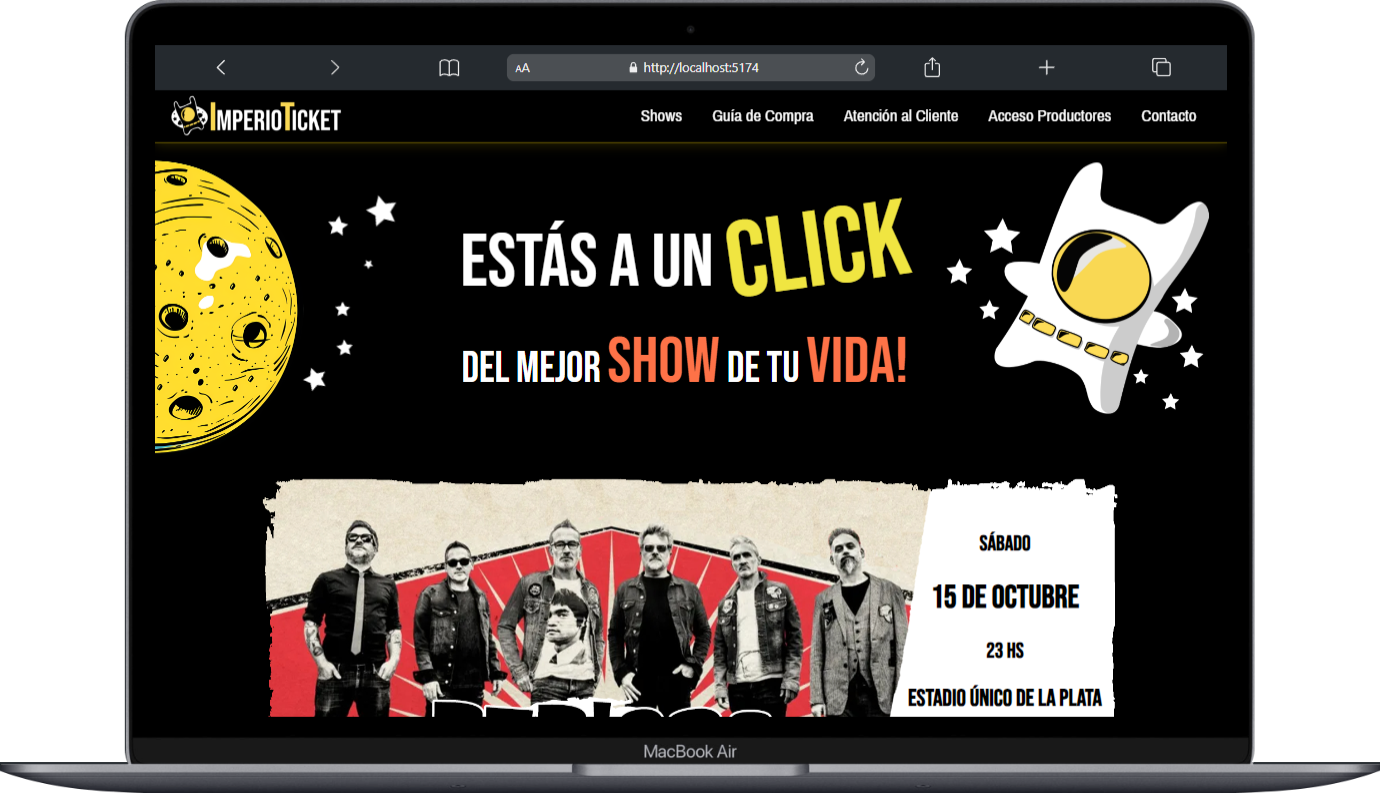
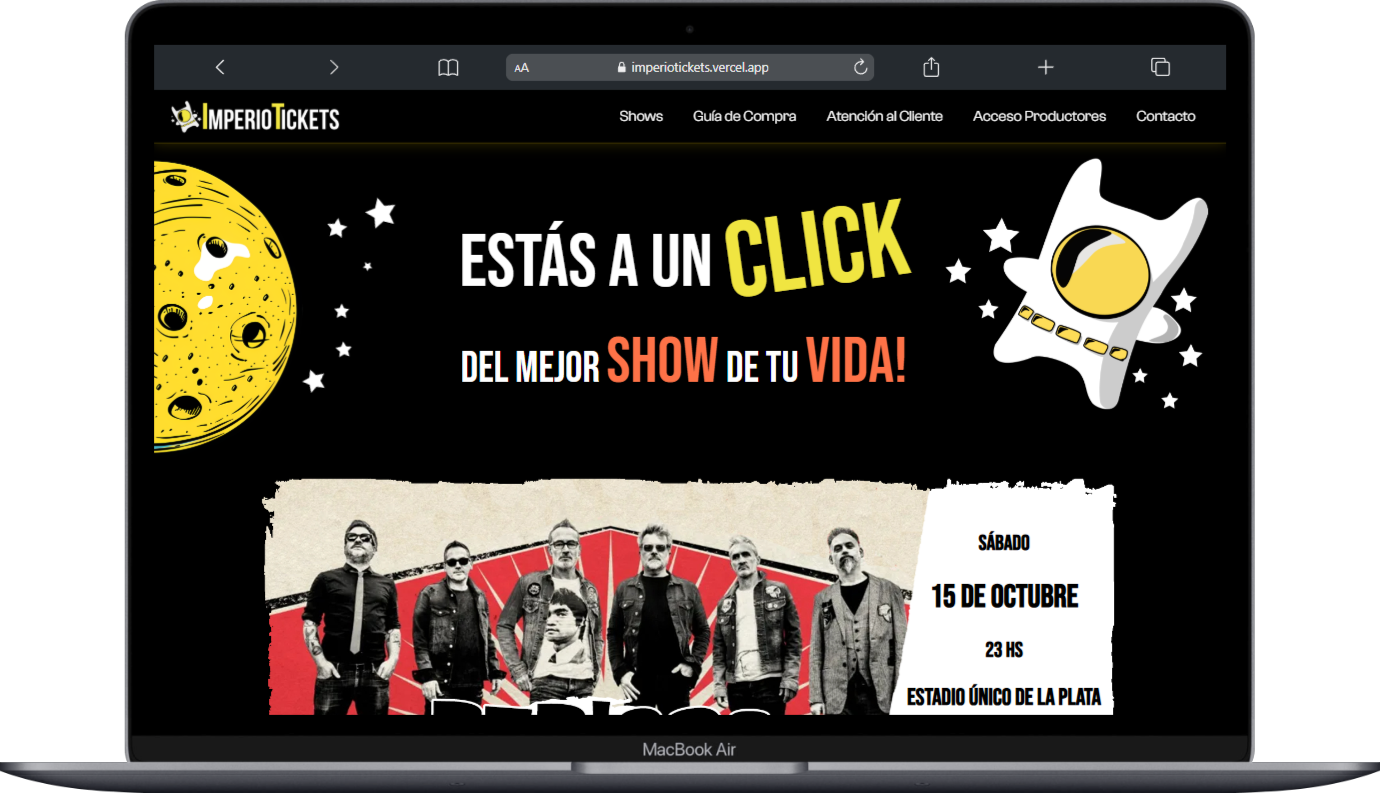
cambio de fotos para proyectos

diff --git a/src/Components/Proyects/Proyects.jsx b/src/Components/Proyects/Proyects.jsx
@@ -115,7 +115,7 @@ const Proyects = () => {
         {/* Div que contiene la información del proyecto */}
         <div className="project-info2">
           <div className='textContainer'>
-            <h3 className='proyectNameImperio'>Imperio Ticket</h3>
+            <h3 className='proyectNameImperio'>Imperio Tickets</h3>
             <p className='proyectDevs1'>{t('imperioTickets.descripcion')}:</p>
             <p className='proyectDevs'>{t('imperioTickets.descripcionDev')} </p>
             <p className='proyectDevs'>{t('imperioTickets.flujo')}</p>

diff --git a/src/Components/Proyects/Proyects.css b/src/Components/Proyects/Proyects.css
@@ -355,7 +355,7 @@
 
 .proyectNameImperio {
     font-family: "Bebas Neue", sans-serif;
-    font-size: 3.2vmax;
+    font-size: 3vmax;
     text-align: start;
     color: #F0E541;
 }
